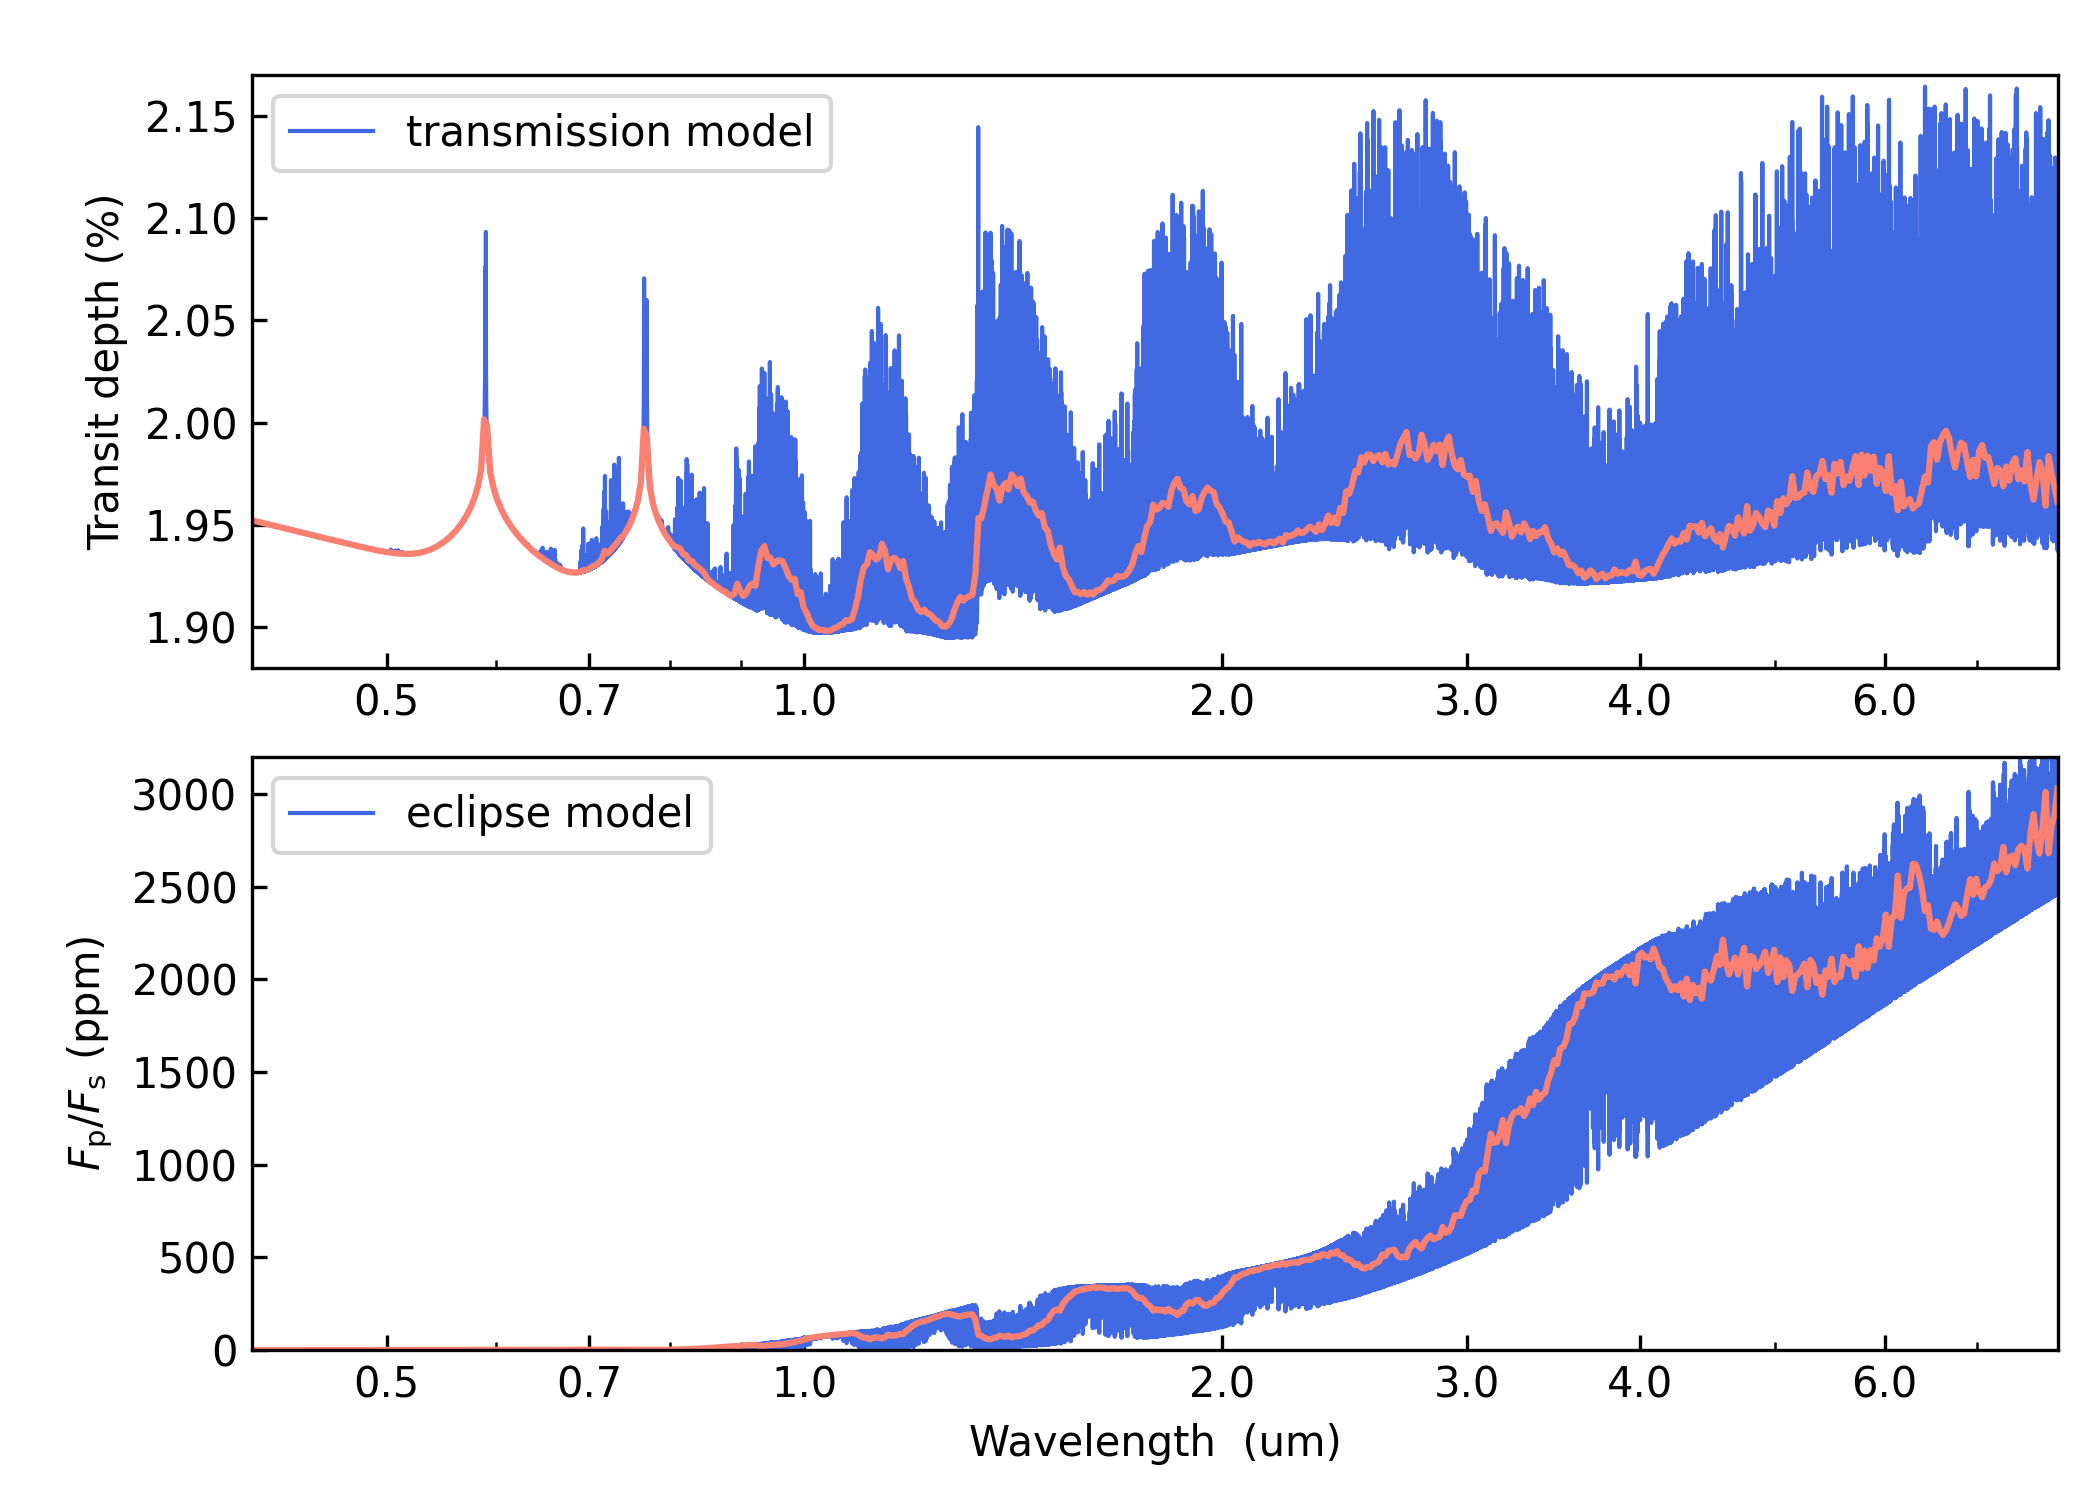
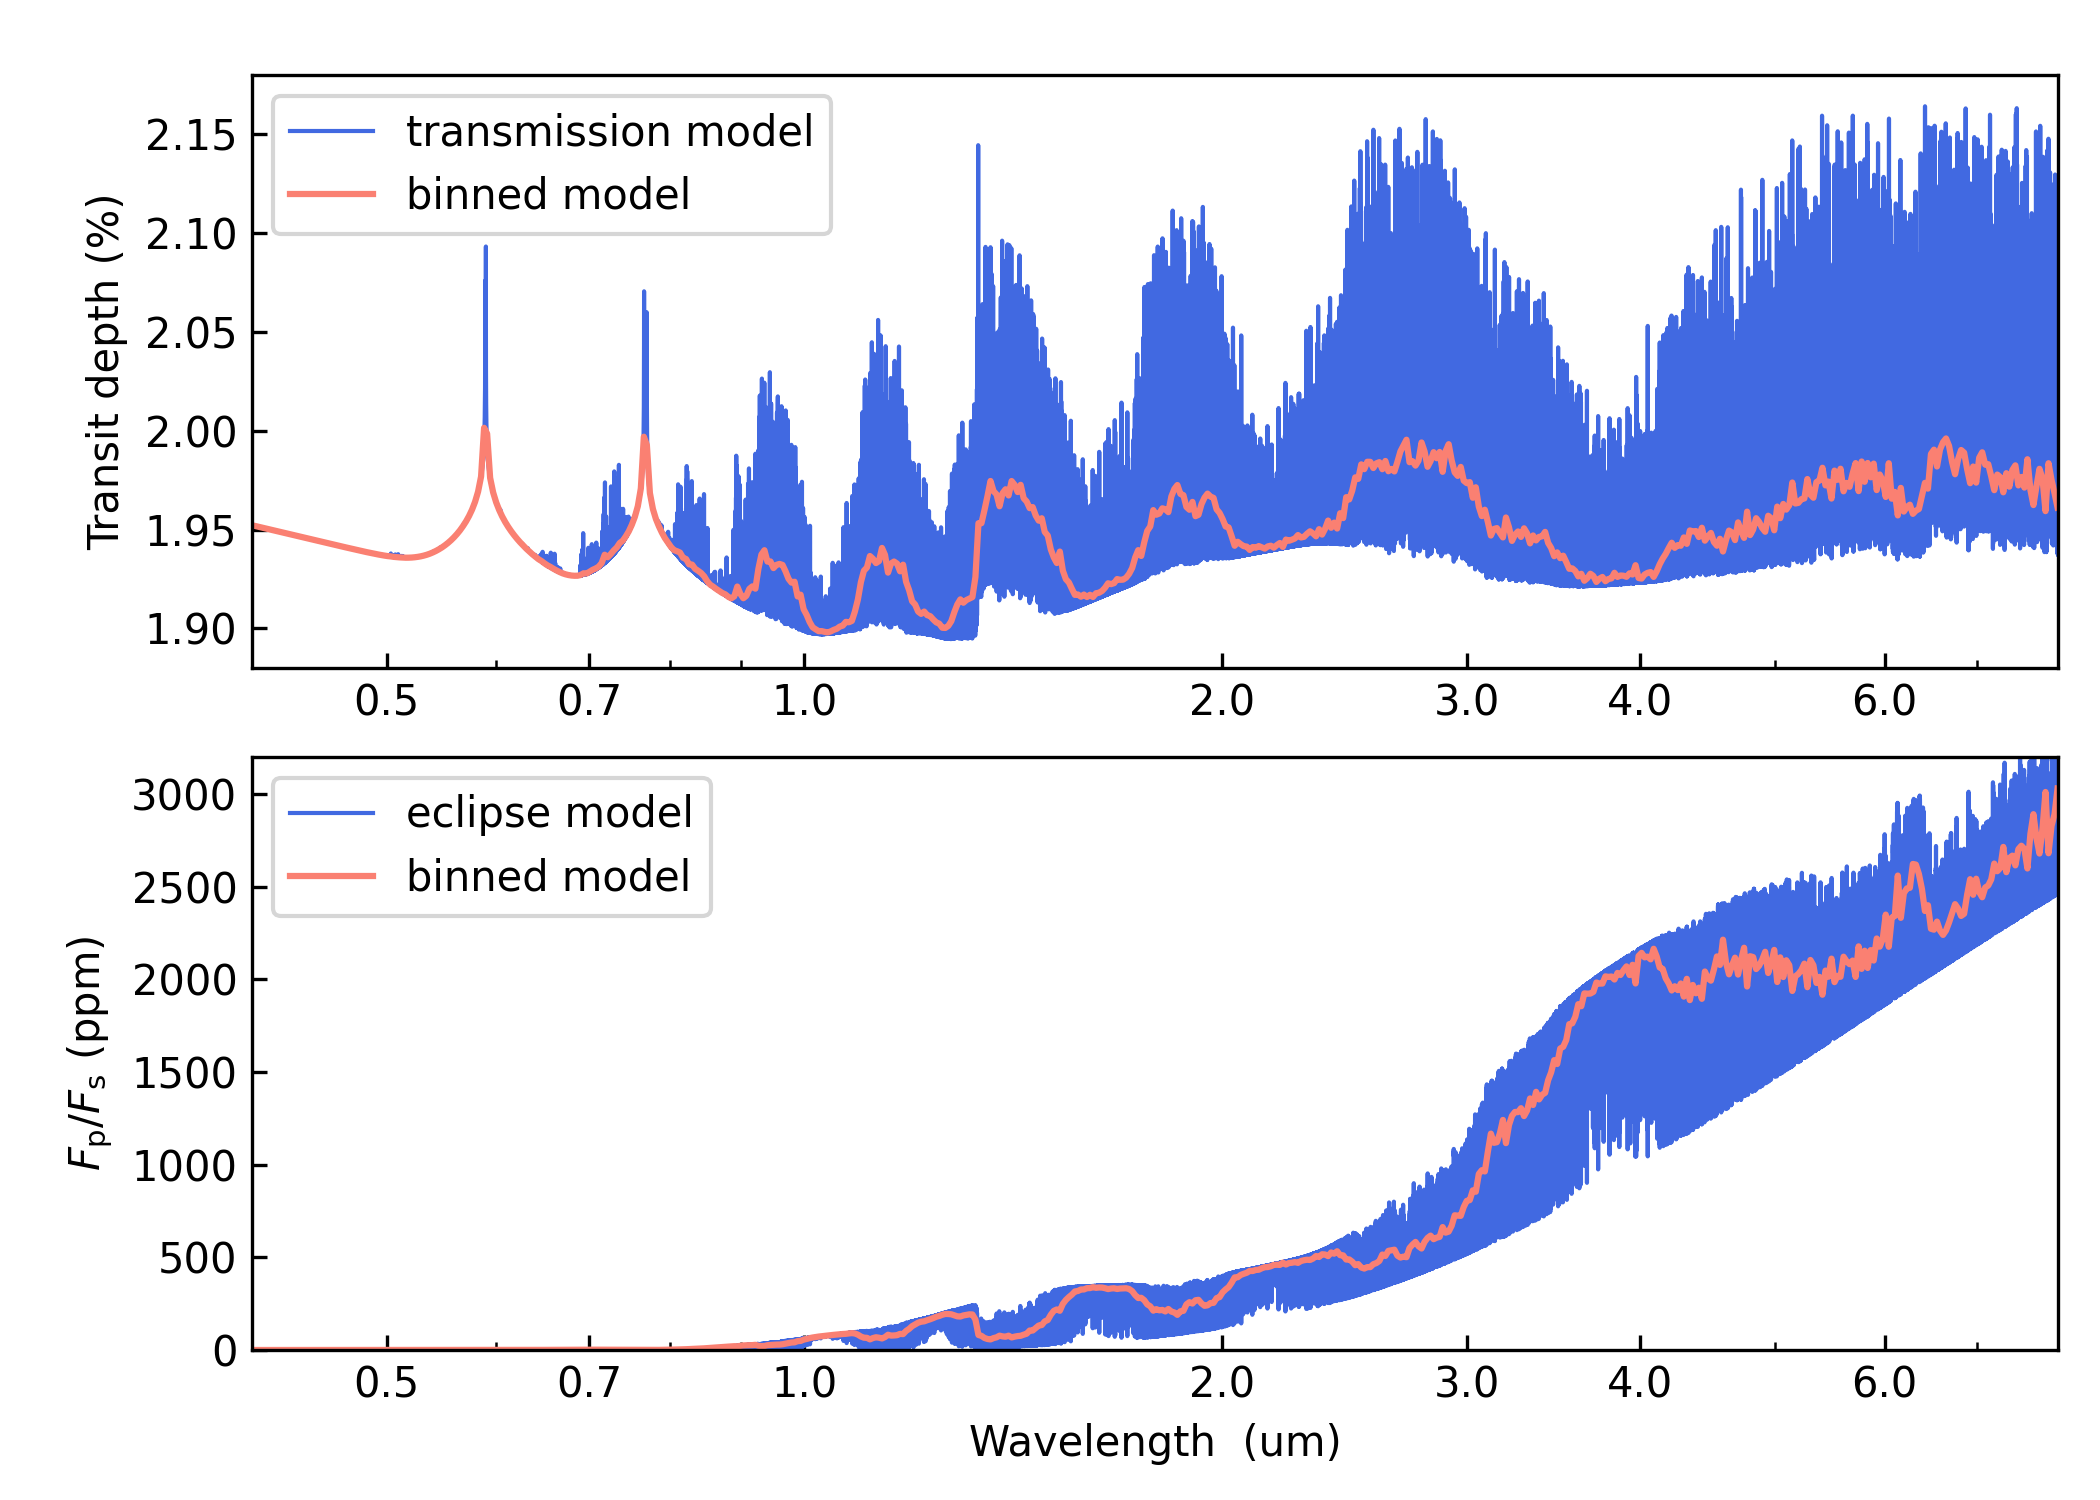
Updated get_started docs.

diff --git a/docs/getstarted.rst b/docs/getstarted.rst
@@ -1,3 +1,5 @@
+.. include:: _substitutions.rst
+
 .. _getstarted:
 
 Getting Started
@@ -106,21 +108,44 @@ Download the H2O line-list database from the HITRAN server and unzip it:
    unzip 01_hit12.zip
 
 
-Copy the ``Pyrat Bay`` configuration files from the `examples folder
-<https://github.com/pcubillos/pyratbay/tree/ver2.0/examples/>`_ to
-your directory.  For example, use the following shell commands:
+Now download the ``Pyrat Bay`` configuration files here below:
 
-.. code-block:: shell
+.. raw:: html
 
-    demo=https://github.com/pcubillos/pyratbay/tree/ver2.0/examples/
-    wget $demo/tutorial_tli_hitran_H2O.cfg
-    wget $demo/tutorial_spectrum_emission.cfg
-    wget $demo/tutorial_spectrum_transmission.cfg
+   <details>
+   <summary>Click here to show/hide: tutorial_tli_hitran_H2O.cfg</summary>
+
+.. literalinclude:: ./_static/data/tutorial_tli_hitran_H2O.cfg
+    :caption: File: `tutorial_tli_hitran_H2O.cfg <./_static/data/tutorial_tli_hitran_H2O.cfg>`__
+
+.. raw:: html
+
+   </details>
+
+   <details>
+   <summary>Click here to show/hide: tutorial_spectrum_transmission.cfg</summary>
+
+.. literalinclude:: ./_static/data/tutorial_spectrum_transmission.cfg
+    :caption: File: `tutorial_spectrum_transmission.cfg <./_static/data/tutorial_spectrum_transmission.cfg>`__
+
+.. raw:: html
+
+   </details>
+
+   <details>
+   <summary>Click here to show/hide: tutorial_spectrum_eclipse.cfg</summary>
+
+.. literalinclude:: ./_static/data/tutorial_spectrum_eclipse.cfg
+    :caption: File: `tutorial_spectrum_eclipse.cfg <./_static/data/tutorial_spectrum_eclipse.cfg>`__
+
+.. raw:: html
+
+   </details>
 
 
 Execute these commands from the shell to create a
-Transition-Line-Information (TLI) file, and then to use it to compute
-transmission and emission spectra:
+Transition-Line-Information file for |H2O|, and then to use it to
+compute transmission and emission spectra:
 
 .. code-block:: shell
 
@@ -152,8 +177,8 @@ interactive mode, I suggest starting the session with ``ipython
   plt.ion()
 
 
-  wl, transmission = io.read_spectrum("./transmission_spectrum_tutorial.dat", wn=False)
-  wl, eclipse = io.read_spectrum("./eclipse_spectrum_tutorial.dat", wn=False)
+  wl, transmission = io.read_spectrum("transmission_spectrum_tutorial.dat", wn=False)
+  wl, eclipse = io.read_spectrum("eclipse_spectrum_tutorial.dat", wn=False)
 
   bin_wl = ps.constant_resolution_spectrum(0.4, 8.0, resolution=200)
   bin_transit = ps.bin_spectrum(bin_wl, wl, transmission)
@@ -165,19 +190,19 @@ interactive mode, I suggest starting the session with ``ipython
   plt.subplots_adjust(0.12, 0.1, 0.98, 0.95, hspace=0.15)
   ax = plt.subplot(211)
   plt.plot(wl, transmission/pc.percent, color="royalblue", label="transmission model", lw=1.0)
-  plt.plot(bin_wl, bin_transit/pc.percent, "salmon", lw=1.5)
+  plt.plot(bin_wl, bin_transit/pc.percent, "salmon", lw=1.5, label='binned model')
   plt.xscale('log')
   plt.ylabel('Transit depth (%)')
   ax.get_xaxis().set_major_formatter(matplotlib.ticker.ScalarFormatter())
   ax.set_xticks([0.5, 0.7, 1.0, 2.0, 3.0, 4.0, 6.0])
   ax.tick_params(which='both', direction='in')
   plt.xlim(0.4, 8.0)
-  plt.ylim(1.88, 2.17)
+  plt.ylim(1.88, 2.18)
   plt.legend(loc="upper left")
 
   ax = plt.subplot(212)
   plt.plot(wl, eclipse/pc.ppm, "royalblue", label="eclipse model", lw=1.0)
-  plt.plot(bin_wl, bin_eclipse/pc.ppm, "salmon", lw=1.5)
+  plt.plot(bin_wl, bin_eclipse/pc.ppm, "salmon", lw=1.5, label='binned model')
   plt.xscale('log')
   plt.xlabel(r"Wavelength  (um)")
   plt.ylabel(r"$F_{\rm p}/F_{\rm s}$ (ppm)")

diff --git a/docs/atmosphere_modeling.rst b/docs/atmosphere_modeling.rst
@@ -1,4 +1,4 @@
-.. include:: ../../_substitutions.rst
+.. include:: _substitutions.rst
 
 .. _atmospheretutorial:
 
